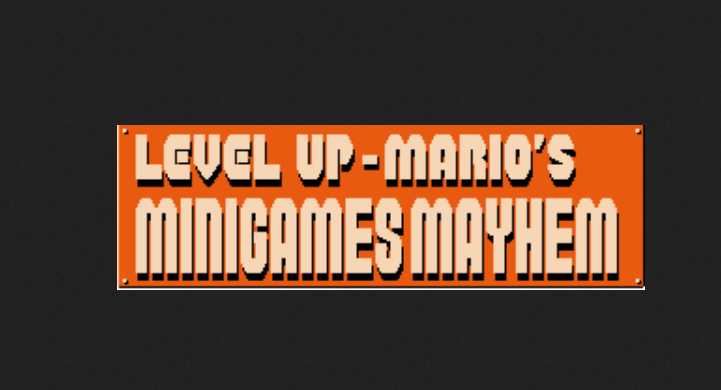
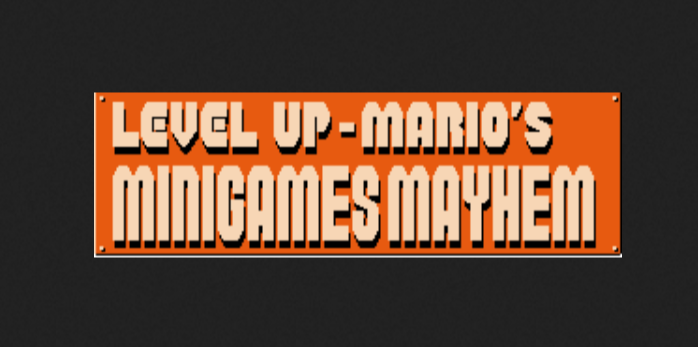
fixed a bunch of incorrectly sized thumbnails

Changed region(s): [[0.1203, 0.2594, 0.9026, 0.7493]]

diff --git a/_games/fireboywatergirl/index.md b/_games/fireboywatergirl/index.md
@@ -1,6 +1,6 @@
 ---
 layout: alt
-title: "Fireboy & Watergirl In the Forest Temple"
+title: "Fireboy & Watergirl 1"
 type: html
 aspectRatio: "16:9"
 description: "Guide Fireboy and Watergirl through cooperative temple puzzles, flipping switches and dodging hazards together."

diff --git a/_games/motox3m/index.md b/_games/motox3m/index.md
@@ -1,6 +1,6 @@
 ---
 layout: alt
-title: "MOTOX3M"
+title: "MotoX3M"
 type: flash
 aspectRatio: "4:3"
 description: "Race through challenging obstacle courses on your motorbike, perform stunts, and beat the clock in this fast-paced motocross game."
